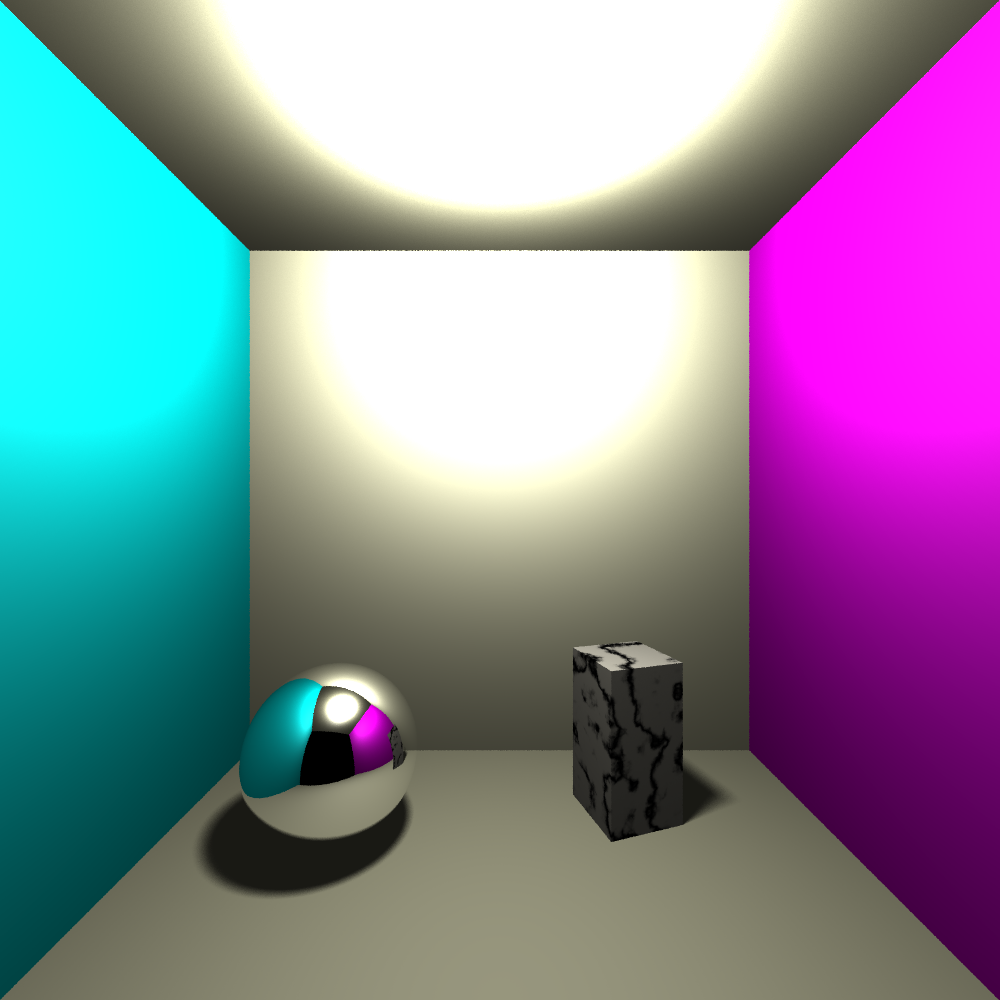
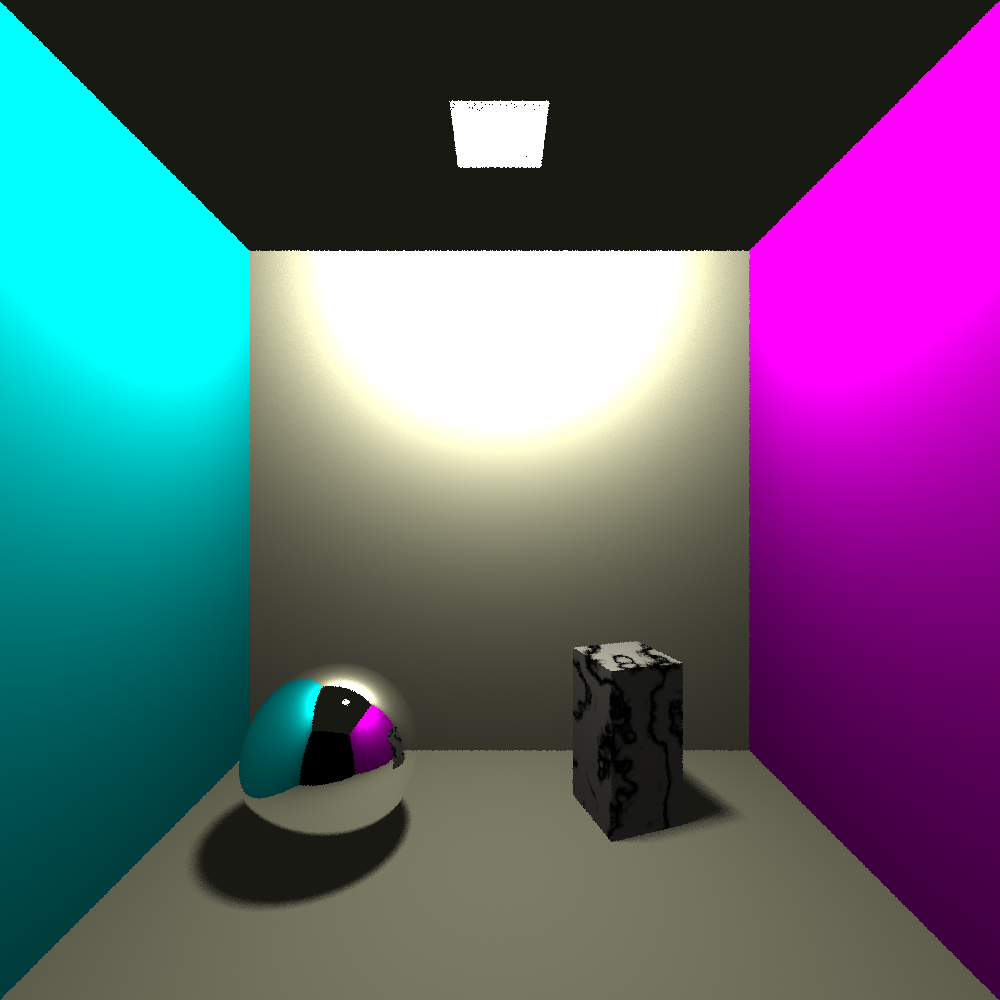
cleanup/fixes to shadow rays. broke unit tests.

diff --git a/src/tracer/scene.rs b/src/tracer/scene.rs
@@ -61,105 +61,102 @@ impl Scene {
                 /* need to use jitter ~ [0,1] here. sphere can then
                  * map to disk in their function */
                     .sample_shadow_ray(h, rand_utils::rand_unit_disk())
-            }).filter(|r: &Ray| self.hit_light(r, &*self.objects[*light_idx]))
+            }).filter(|r: &Ray| self.hit_light(r))
                 .collect::<Vec<Ray>>()
         }).collect()
     }
 
-    fn hit_light(&self, r: &Ray, l: &dyn Object) -> bool {
-        let l_distance_sq =
-            (l.hit(r).map_or(DVec3::ZERO, |h| h.p) - r.origin).length_squared();
+    /* r origin in point where we cast shadow ray and direction points
+     * to randomly sampled point on light, p, such that: r.o + r.dir = p */
+    fn hit_light(&self, r: &Ray) -> bool {
+        //println!("{}", r.origin + r.dir);
         let no_block_light = |obj: &&Box<dyn Object>| -> bool {
-            obj.hit(r).filter(|hit| {
-                !hit.object.is_translucent()
-                /* check if object is behind light */
-                    && (hit.p - r.origin).length_squared() <
-                    l_distance_sq
+            /* only keep hits that are closer than light and not translucent */
+            obj.hit(r).filter(|h: &Hit| {
+                h.t + EPSILON < 1.0 && !h.object.is_translucent()
+                /* to check if object is behind light the rays are same,
+                 * so we can just compare t's. for our light the t is
+                 * always 1.0 by design of r */
             }).is_none()
         };
 
-        self.objects.iter().take_while(no_block_light).count()
-            == self.objects.len()
-    }
+        self.objects.iter().take_while(no_block_light)
+            .count() == self.objects.len()
+        }
 
-    pub fn box_scene() -> Self {
-        /* y ground */
-        let yg = -0.8;
-        let col = DVec3::new(255.0, 253.0, 208.0) / 255.9;
-        Self::new(
-            DVec3::splat(0.1),
-            vec![
-                Sphere::new(
-                    DVec3::new(-0.4, -0.6, -1.2),
-                    0.2,
-                    Material::Mirror,
-                ),
-                /*
-                Sphere::new(
-                    DVec3::new(-0.05, yg + 0.1, yg - 0.2),
-                    0.1,
-                    Material::Glass,
-                ),
-                 */
-                Cuboid::new(
-                    DAffine3::from_translation(
-                        DVec3::new(0.2, yg, 1.7*yg))
-                        * DAffine3::from_scale(DVec3::new(0.2, 0.4, 0.2))
-                        * DAffine3::from_rotation_y(PI / 10.0),
-                    Material::Phong(Texture::Marble(
-                        Perlin::new(DVec3::new(240.0, 235.0, 215.0) / 255.9)
-                    ))
-                ),
-                Rectangle::new(
-                    DMat3::from_cols(
-                        DVec3::new(-0.1, -(yg + 100.0*EPSILON), yg - 0.0),
-                        DVec3::new(-0.1, -(yg + 100.0*EPSILON), yg - 0.2),
-                        DVec3::new(0.1, -(yg + 100.0*EPSILON), yg - 0.2),
+        pub fn box_scene() -> Self {
+            /* y ground */
+            let yg = -0.8;
+            let col = DVec3::new(255.0, 253.0, 208.0) / 255.9;
+            Self::new(
+                DVec3::splat(0.1),
+                vec![
+                    Sphere::new(
+                        DVec3::new(-0.4, -0.6, -1.2),
+                        0.2,
+                        Material::Mirror,
                     ),
-                    Material::Light(Texture::Solid(DVec3::ONE))
-                ),
-                // roof
-                Plane::new(
-                    DVec3::new(0.0, -yg, 0.0),
-                    DVec3::new(0.0, -1.0, 0.0),
-                    Material::Phong(Texture::Solid(col)),
-                ),
-                /* floor */
-                Rectangle::new(
-                    DMat3::from_cols(
-                        DVec3::new(-yg, yg, 0.0),
-                        DVec3::new(yg, yg, 0.0),
-                        DVec3::new(yg, yg, 2.0*yg),
+                    Cuboid::new(
+                        DAffine3::from_translation(
+                            DVec3::new(0.2, yg, 1.7*yg))
+                            * DAffine3::from_scale(DVec3::new(0.2, 0.4, 0.2))
+                            * DAffine3::from_rotation_y(PI / 10.0),
+                        Material::Phong(Texture::Marble(
+                            Perlin::new(DVec3::new(240.0, 235.0, 215.0) / 255.9)
+                        ))
                     ),
-                    Material::Phong(Texture::Solid(col)),
-                ),
-                // front wall
-                Plane::new(
-                    DVec3::new(0.0, 0.0, 2.0*yg),
-                    DVec3::new(0.0, 0.0, 1.0),
-                    Material::Phong(Texture::Solid(col)),
-                ),
-                // left wall
-                Plane::new(
-                    DVec3::new(yg, 0.0, 0.0),
-                    DVec3::new(1.0, 0.0, 0.0),
-                    Material::Phong(Texture::Solid(DVec3::new(0.0, 1.0, 1.0))),
-                ),
-                // right wall
-                Plane::new(
-                    DVec3::new(-yg, 0.0, 0.0),
-                    DVec3::new(-1.0, 0.0, 0.0),
-                    Material::Phong(Texture::Solid(DVec3::new(1.0, 0.0, 1.0))),
-                ),
-                // background
-                Plane::new(
-                    DVec3::new(0.0, 0.0, 0.1),
-                    DVec3::new(0.0, 0.0, -1.0),
-                    Material::Blank,
-                ),
-            ],
-        )
-    }
+                    /* if light and roof have same y, then light should come
+                     * before roof in this vector and everything should be ok */
+                    Rectangle::new(
+                        DMat3::from_cols(
+                            DVec3::new(-0.1, -yg, yg - 0.2),
+                            DVec3::new(-0.1, -yg, yg - 0.4),
+                            DVec3::new(0.1, -yg, yg - 0.4),
+                        ),
+                        Material::Light(Texture::Solid(DVec3::ONE)),
+                    ),
+                    // roof
+                    Plane::new(
+                        DVec3::new(0.0, -yg, 0.0),
+                        DVec3::new(0.0, -1.0, 0.0),
+                        Material::Phong(Texture::Solid(col)),
+                    ),
+                    /* floor */
+                    Rectangle::new(
+                        DMat3::from_cols(
+                            DVec3::new(-yg, yg, 0.0),
+                            DVec3::new(yg, yg, 0.0),
+                            DVec3::new(yg, yg, 2.0*yg),
+                        ),
+                        Material::Phong(Texture::Solid(col)),
+                    ),
+                    // front wall
+                    Plane::new(
+                        DVec3::new(0.0, 0.0, 2.0*yg),
+                        DVec3::new(0.0, 0.0, 1.0),
+                        Material::Phong(Texture::Solid(col)),
+                    ),
+                    // left wall
+                    Plane::new(
+                        DVec3::new(yg, 0.0, 0.0),
+                        DVec3::new(1.0, 0.0, 0.0),
+                        Material::Phong(Texture::Solid(DVec3::new(0.0, 1.0, 1.0))),
+                    ),
+                    // right wall
+                    Plane::new(
+                        DVec3::new(-yg, 0.0, 0.0),
+                        DVec3::new(-1.0, 0.0, 0.0),
+                        Material::Phong(Texture::Solid(DVec3::new(1.0, 0.0, 1.0))),
+                    ),
+                    // background
+                    Plane::new(
+                        DVec3::new(0.0, 0.0, 0.1),
+                        DVec3::new(0.0, 0.0, -1.0),
+                        Material::Blank,
+                    ),
+                ],
+            )
+        }
 
         pub fn default() -> Self {
             Self::new(

diff --git a/src/tracer/object/triangle.rs b/src/tracer/object/triangle.rs
@@ -90,15 +90,15 @@ impl Object for Triangle {
 
     /* bad distribution with disk... */
     fn sample_shadow_ray(&self, h: &Hit, rand_disk: DVec2) -> Ray {
-        let x = 0.5*(1.0 + rand_disk.x);
-        let y = 0.5*(1.0 + rand_disk.y);
-        let alpha = 1.0 - x.sqrt();
-        let beta = y * x.sqrt();
-        let gamma = 1.0 - alpha - beta;
+        let r1 = 0.5*(1.0 + rand_disk.x);
+        let r2 = 0.5*(1.0 + rand_disk.y);
+
+        let gamma = 1.0 - (1.0 - r1).sqrt();
+        let beta = r2 * (1.0 - gamma);
 
         Ray::new(
             h.p,
-            alpha*self.a + beta*self.b + gamma*self.c - h.p,
+            self.a + beta * (self.b - self.a) + gamma * (self.c - self.a) - h.p,
             0,
         )
     }

diff --git a/src/tracer/scene/scene_tests.rs b/src/tracer/scene/scene_tests.rs
@@ -28,7 +28,7 @@ fn light_pass_glass() {
         DVec3::new(0.0, 1.0, 0.0),
         0,
     );
-    assert!(s.hit_light(&r, &*s.objects[0]));
+    assert!(s.hit_light(&r));
 }
 
 #[test]
@@ -39,7 +39,7 @@ fn light_no_pass() {
         DVec3::new(0.0, 1.0, 0.0),
         0,
     );
-    assert!(!s.hit_light(&r, &*s.objects[0]));
+    assert!(!s.hit_light(&r));
 }
 
 #[test]
@@ -50,7 +50,7 @@ fn object_behind_light() {
         DVec3::new(0.0, -1.0, 0.0),
         0,
     );
-    assert!(s.hit_light(&r, &*s.objects[0]));
+    assert!(s.hit_light(&r));
 }
 
 #[test]

diff --git a/src/tracer/ray.rs b/src/tracer/ray.rs
@@ -4,7 +4,7 @@ use crate::tracer::scene::Scene;
 
 pub struct Ray {
     pub origin: DVec3,
-    /* NORMALIZED ?? */
+    /* should not be normalized. go through code to verify */
     pub dir: DVec3,
     pub depth: usize,
 }
